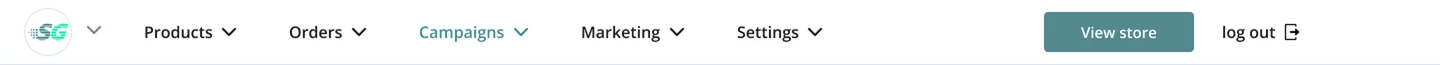
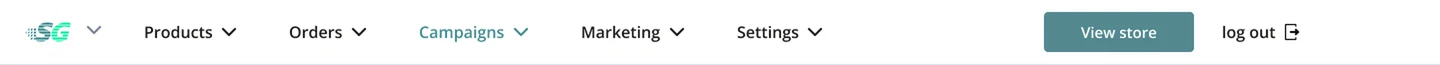
Sport Guardian admin: SG mark in the nav without the round outline

Changed region(s): [[0.0, 0.3385, 0.0625, 0.6462]]

diff --git a/tools/sport-guardian/admin_dash.py b/tools/sport-guardian/admin_dash.py
@@ -21,8 +21,8 @@ head = club_logo(Image.open(os.path.join(HERE, 'figma', '1x', 'statistik.png')).
 club = head.crop((24, 8, 72, 56))  # the swim club's mark, kept for the campaign card
 # the product's own logo in the nav (her request, 2026-10-14): the SG mark (teal S, green G) in the round badge
 from mark import mark as sg_mark, TEAL as T_, GREEN as G_
-_m = sg_mark(SC=1, s_col=T_, g_col=G_, trail_col=T_); _w = 40*4; _m = _m.resize((_w, round(_m.height*_w/_m.width)), Image.LANCZOS)
-_b = Image.new('RGBA', (48*4, 48*4), (255, 255, 255, 255)); ImageDraw.Draw(_b).ellipse((0, 0, 48*4-1, 48*4-1), outline=(220, 228, 232, 255), width=4)
+_m = sg_mark(SC=1, s_col=T_, g_col=G_, trail_col=T_); _w = 46*4; _m = _m.resize((_w, round(_m.height*_w/_m.width)), Image.LANCZOS)
+_b = Image.new('RGBA', (48*4, 48*4), (255, 255, 255, 255)); # no round outline (her request)
 _b.paste(_m, ((48*4-_m.width)//2+2, (48*4-_m.height)//2), _m)
 _mask = Image.new('L', (48*4, 48*4), 0); ImageDraw.Draw(_mask).ellipse((0, 0, 48*4-1, 48*4-1), fill=255)
 head.paste(_b.resize((48, 48), Image.LANCZOS).convert('RGB'), (24, 8), _mask.resize((48, 48), Image.LANCZOS))
